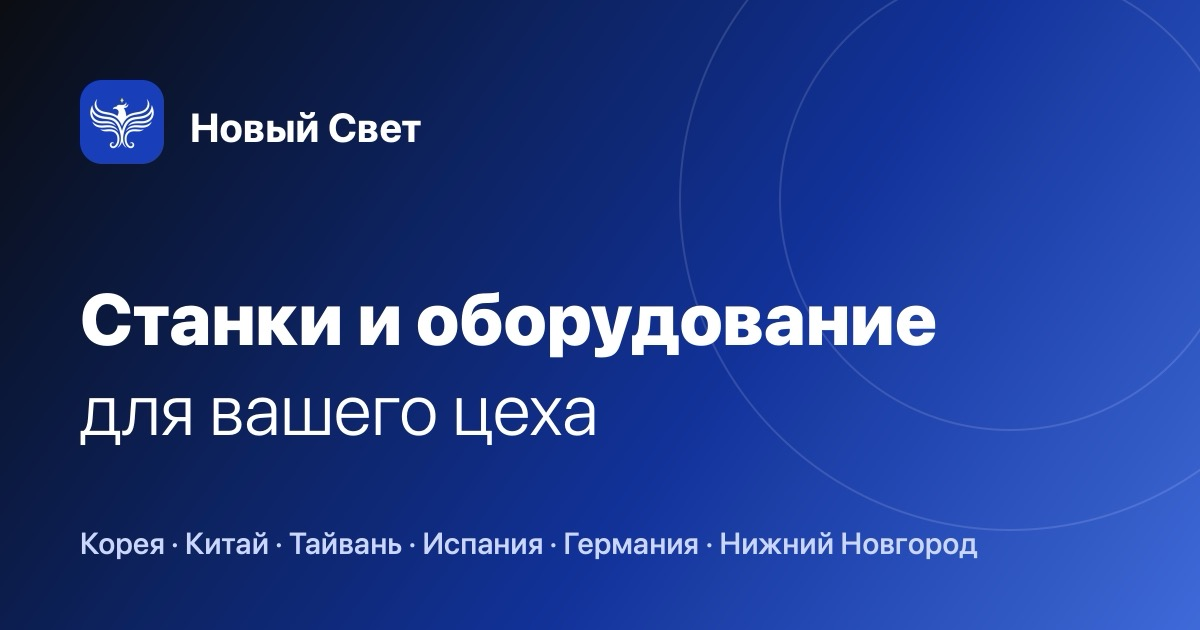
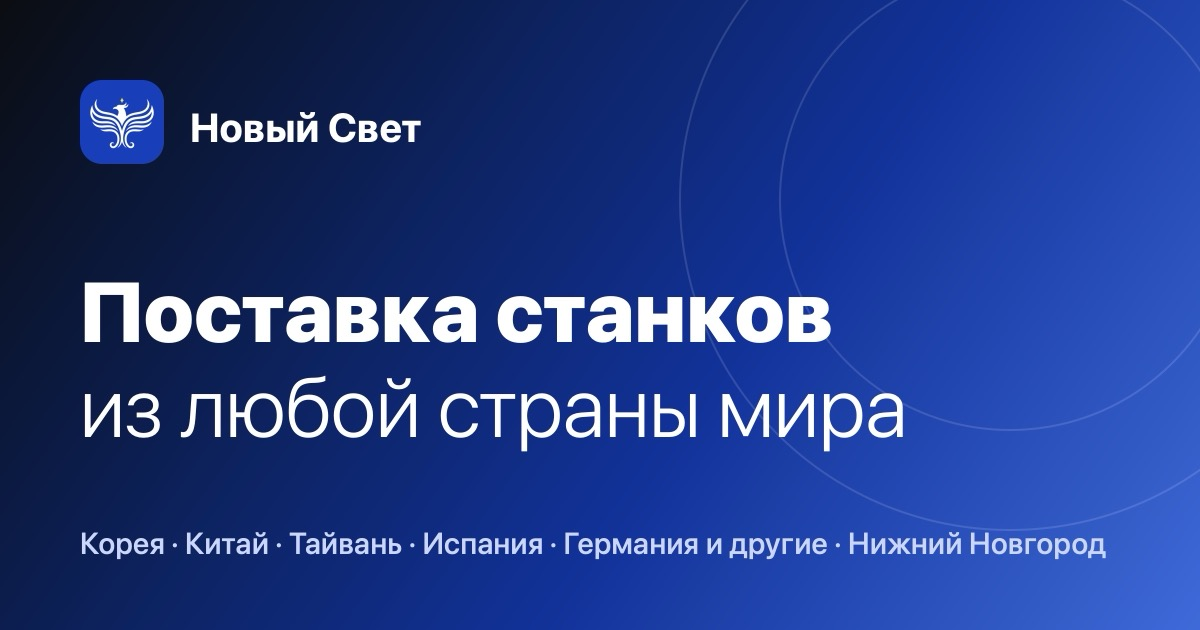
Заголовок и превью: «Поставка станков из любой страны мира»

Changed region(s): [[0.0617, 0.4222, 0.8017, 0.7238], [0.5858, 0.8444, 0.925, 0.9048]]

diff --git a/index.html b/index.html
@@ -3,7 +3,7 @@
 <head>
 <meta charset="utf-8">
 <meta name="viewport" content="width=device-width, initial-scale=1">
-<title>Новый Свет — промышленное оборудование и станки</title>
+<title>Поставка станков из любой страны мира — Новый Свет</title>
 <meta name="description" content="Поставка металлообрабатывающих станков и промышленного оборудования из Южной Кореи, Китая, Тайваня, Испании, Германии и других стран. Нижний Новгород.">
 <link rel="canonical" href="https://zarovkinvital005-create.github.io/noviysvet/">
 <meta name="theme-color" content="#0A0D12">
@@ -13,7 +13,7 @@
 <meta property="og:type" content="website">
 <meta property="og:site_name" content="Новый Свет">
 <meta property="og:locale" content="ru_RU">
-<meta property="og:title" content="Новый Свет — промышленное оборудование и станки">
+<meta property="og:title" content="Поставка станков из любой страны мира — Новый Свет">
 <meta property="og:description" content="Поставка металлообрабатывающих станков и промышленного оборудования из Южной Кореи, Китая, Тайваня, Испании, Германии и других стран. Нижний Новгород.">
 <meta property="og:url" content="https://zarovkinvital005-create.github.io/noviysvet/">
 <meta property="og:image" content="https://zarovkinvital005-create.github.io/noviysvet/assets/og-image.jpg">
